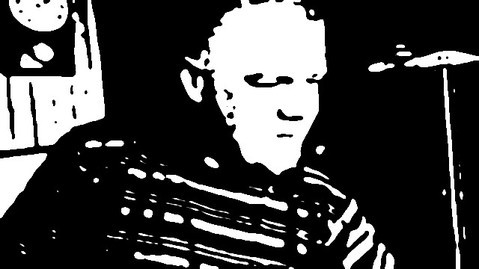
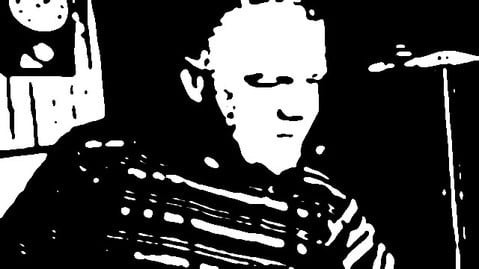
zmniejszenie zdjęć

diff --git a/index.html b/index.html
@@ -53,7 +53,7 @@
 				<p>Jestem Michał, z zawodu i wykształcenia kucharz - kelner. Hobbistycznie rysuję ołówkiem portrety znanych piosenkarzy i aktorów. Pasjonuję się również polskimi serialami i filmami, głównie z czasów PRL-u. Moimi ulubionymi gatunkami filmowymi są komedie i kryminały.</p>
 			</div>
 			<div>
-				<figure><img src="images/3.png">
+				<figure><img src="images/3.jpg">
 					<figcaption><i>Niebieski profil.</i></figcaption>
 				</figure>
 				<h2>&#247;</h2>
@@ -84,7 +84,7 @@
 				</figure><br>
 				<figure>
 					<picture>
-						<source media="(max-width: 800px) and (orientation: portrait)" srcset="sliders/1-1.jpg"><img src="images/5.png">
+						<source media="(max-width: 800px) and (orientation: portrait)" srcset="sliders/1-1.jpg"><img src="images/5_.jpg">
 					</picture>
 					<figcaption><i>Portret.</i></figcaption>
 				</figure>
